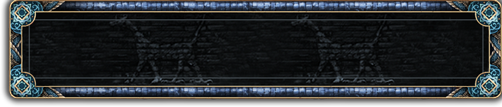
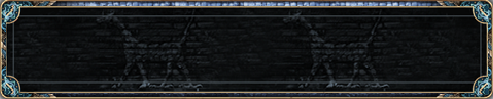
fix overlay and display

diff --git a/frontend/gui.py b/frontend/gui.py
@@ -1563,7 +1563,7 @@ class GUI(threading.Thread):
 
         font = pygame.font.Font(None, 18)  # Police pour le texte
         x_start = 10  # Position horizontale de départ
-        y_start = 10  # Position verticale de départ
+        y_start = 30  # Position verticale de départ
         spacing = 10  # Espacement entre chaque joueur
         text_color = (255, 255, 255)  # Couleur du texte (blanc pour contraste)
 
@@ -1615,32 +1615,40 @@ class GUI(threading.Thread):
 
     def display_player_units(self):
         font = pygame.font.Font(None, 18)  # Police pour le texte
-        x_start = 40  # Position horizontale de départ
-        y_start = 198 if self.show_resources else 18  # Ajuster la position verticale selon show_resources
-        spacing = 5  # Espacement entre chaque joueur
+        y_start = 50  # Position verticale de départ
+        spacing = 6  # Espacement entre chaque joueur
         text_color = (255, 255, 255)  # Couleur du texte (blanc pour contraste)
+        player_display_height = 15 + spacing  # Hauteur totale occupée par un joueur
+        player_name_width = 60  # Largeur réservée pour afficher les noms des joueurs
+        unit_text_width = 80  # Largeur par unité affichée
 
-        # Charger l'image de fond
-        background_image = self.back
+        # Calculer la hauteur dynamique en fonction du nombre de joueurs
+        num_players = len(self.game_data.players)
+        dynamic_height = y_start + num_players * player_display_height   # Hauteur nécessaire pour tous les joueurs
 
-        # Dessiner l'image de fond
-        if self.show_resources:
-            self.screen.blit(background_image, (0, 175))
-        else:
-            self.screen.blit(background_image, (0, 0))
+        # Définir une largeur fixe pour l'image
+        fixed_width = 415  # Largeur fixe de l'image de fond
+
+        # Obtenir la largeur de l'écran pour placer l'image dans le coin supérieur droit
+        screen_width = self.screen.get_width()
+        x_start_background = screen_width - fixed_width  # Calculer la position horizontale pour le fond
+        x_start = x_start_background + 20  # Décalage interne pour le texte à l'intérieur de l'image
+
+        # Redimensionner l'image de fond pour qu'elle corresponde à la largeur fixe et à la hauteur dynamique
+        background_image = pygame.transform.scale(self.back, (fixed_width, dynamic_height))
+        self.screen.blit(background_image, (x_start_background, 30))  # Placer l'image dans le coin supérieur droit
 
         # Parcourir chaque joueur
         for i, player in enumerate(self.game_data.players):
-            y_position = y_start + i * (15 + spacing)
-            x_position = x_start
+            y_position = y_start + i * player_display_height
 
             # Afficher le nom du joueur
             name_text = f"{player.name}"
             name_surface = font.render(name_text, True, text_color)
-            self.screen.blit(name_surface, (x_position, y_position))
+            self.screen.blit(name_surface, (x_start, y_position))
 
             # Décalage initial pour afficher les unités
-            text_x = x_position + 80
+            text_x = x_start + player_name_width
 
             # Compter et afficher les unités par type
             unit_counts = {}
@@ -1656,7 +1664,8 @@ class GUI(threading.Thread):
                 unit_text = f"{unit_type}: {count}"
                 unit_surface = font.render(unit_text, True, text_color)
                 self.screen.blit(unit_surface, (text_x, y_position))
-                text_x += 100 
+                text_x += unit_text_width
+
 
     def check_victory(self):
         active_players = [p for p in self.game_data.players if p.units or p.buildings]
